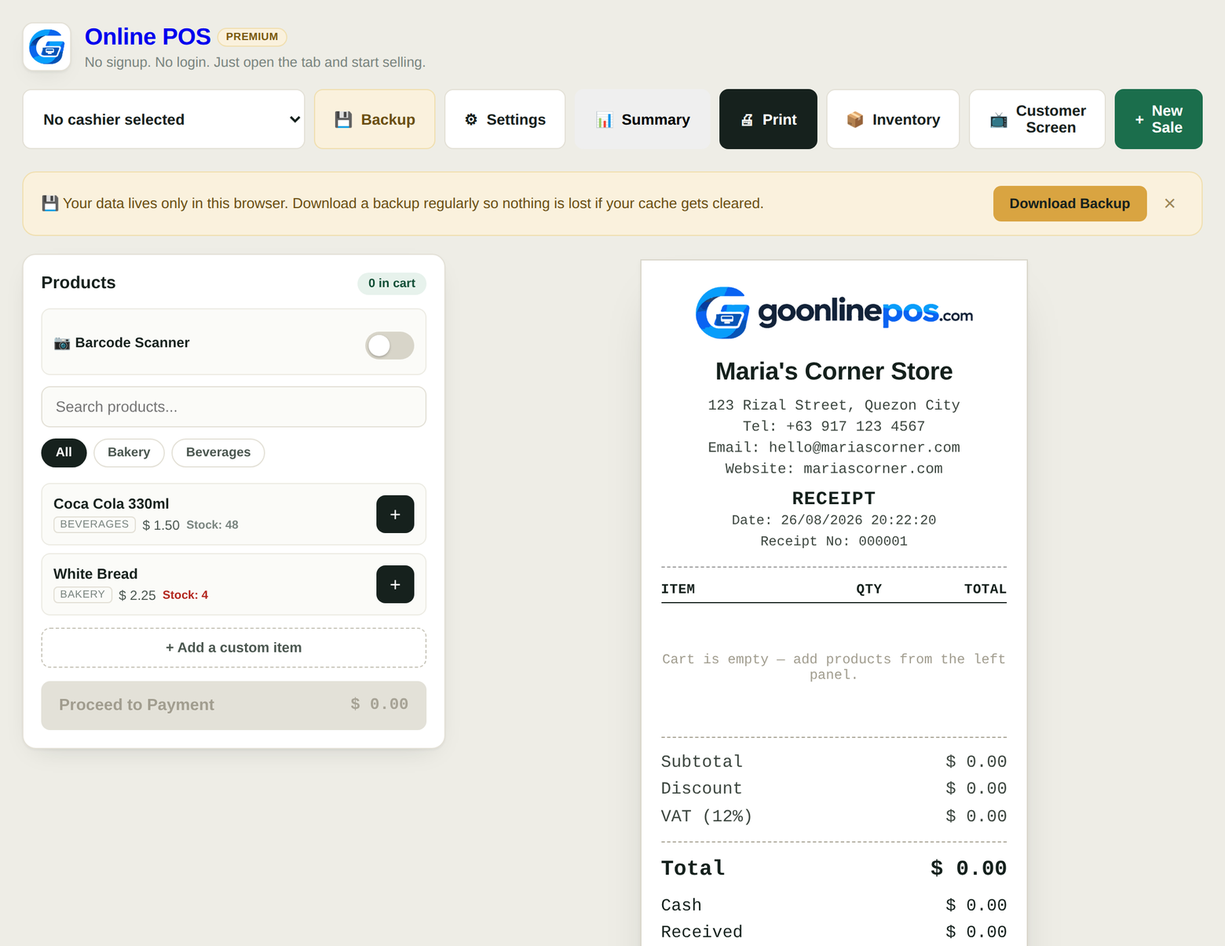
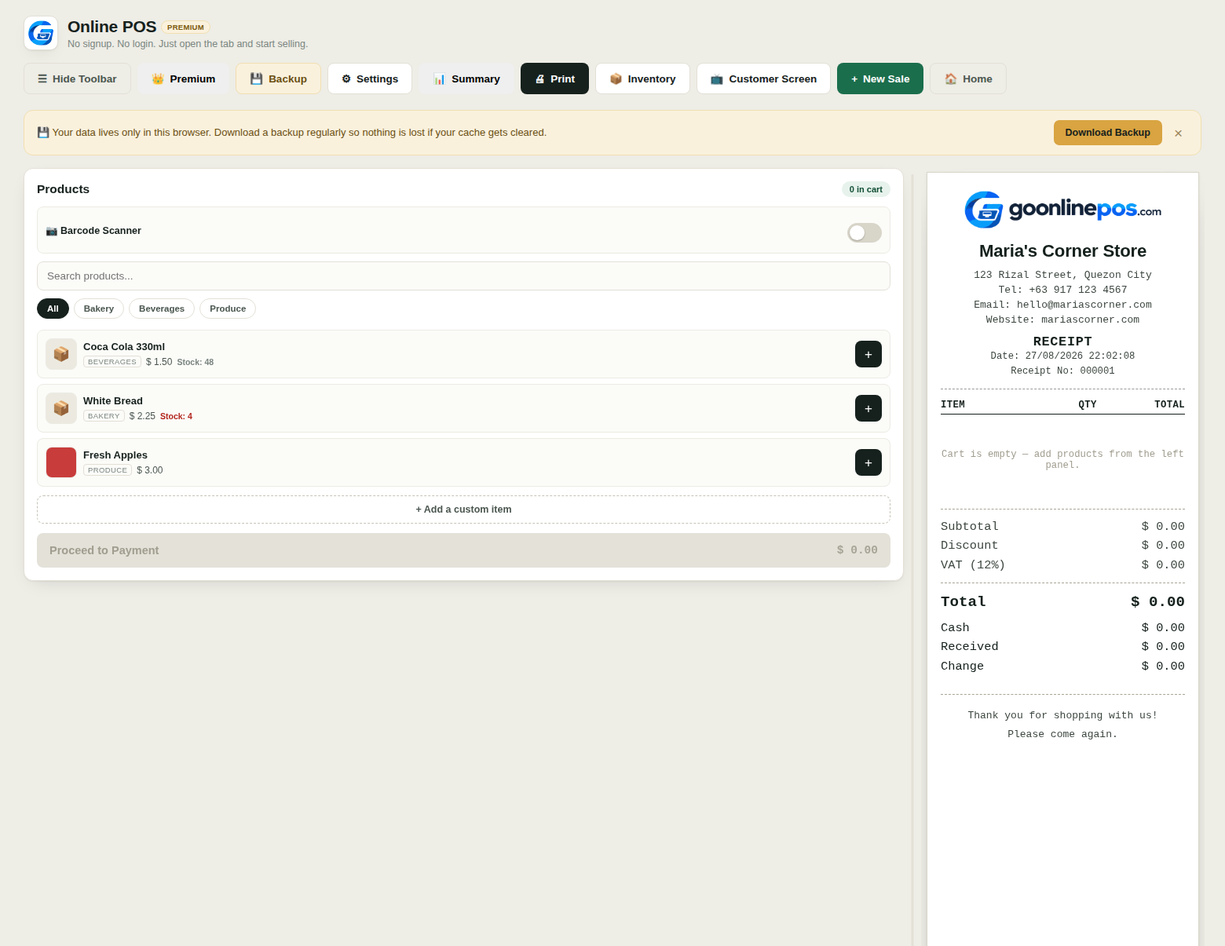
Add Home button, custom date-range sales export, refresh homepage screenshot
Three changes:

1. Explicit Home button (#homeShortcutButton, header toolbar) navigating
   to index.html via goHome(), which confirms first if the cart is
   non-empty (cart is in-memory only, never persisted -- navigating
   away would silently lose an in-progress sale otherwise). The header
   logo/title (.brand) is no longer itself a link -- it was an
   unguarded shortcut to the same destination that bypassed this safety
   check entirely and was easy to trigger by accident; now the explicit
   Home button is the only way back to the homepage from the app.

2. Sales History (Settings -> Sales History) gets optional From/To date
   pickers, both blank by default (= export everything, unchanged
   behavior). filterSalesHistoryByDateRange() filters salesHistory by
   saleDateKey() before building the export, so both the .xlsx path and
   its CSV fallback respect the same range; the downloaded filename
   reflects the chosen range instead of just today's date when one is
   set. A range matching zero sales shows an alert instead of
   downloading an empty file.

3. Regenerated the homepage's main-screen screenshot (guide-catalog.png)
   from the current live app -- the old one predated this session's
   toolbar, resizable layout, and Premium/Home buttons, so its
   description text was stale too. Updated that paragraph to mention
   the new header buttons, the resizable split, and product photos.

Re-verified: Home button navigates with/without the cart-guard as
[…]

diff --git a/app.html b/app.html
@@ -460,7 +460,7 @@ input:focus, textarea:focus, select:focus { outline: none; border-color: var(--a
 <body>
 
 <header class="app-header">
-<a class="brand" href="index.html">
+<div class="brand">
 <div class="brand-mark" aria-hidden="true">
 <img src="favicon.png" alt="">
 </div>
@@ -468,7 +468,7 @@ input:focus, textarea:focus, select:focus { outline: none; border-color: var(--a
 <h1><span id="appTitle">Online POS</span> <span class="premium-badge" id="premiumBadgeAppTitle">Premium</span> <span class="special-access-badge hidden" id="specialAccessBadge"></span></h1>
 <div class="subtitle" id="appSubtitle">No signup. No login. Just open the tab and start selling.</div>
 </div>
-</a>
+</div>
 <div class="header-actions">
 <button type="button" id="toolbarToggleBtn" class="toolbar-toggle-btn" onclick="toggleToolbar()">☰ <span id="toolbarToggleLabel">Hide Toolbar</span></button>
 <div class="header-actions-group" id="headerActionsGroup">
@@ -481,6 +481,7 @@ input:focus, textarea:focus, select:focus { outline: none; border-color: var(--a
 <button id="inventoryShortcutButton" onclick="openInventoryPanel()" title="View and edit stock">📦 <span id="inventoryShortcutLabel">Inventory</span></button>
 <button id="customerScreenButton" onclick="openCustomerScreenPanel()">📺 <span id="customerScreenButtonLabel">Customer Screen</span></button>
 <button id="newSaleButton" onclick="newSale()">+ <span id="newSaleButtonLabel">New Sale</span></button>
+<button id="homeShortcutButton" onclick="goHome()" style="background:transparent; border:1px solid var(--line); color:var(--ink-soft);" title="Go to homepage">🏠 <span id="homeShortcutLabel">Home</span></button>
 </div>
 </div>
 </header>
@@ -939,6 +940,16 @@ Website: goonlinepos.com</textarea>
         <h3 id="salesHistoryTitle">Sales History</h3>
         <div class="info" id="salesHistorySummary" style="display:block;">0 sales recorded.</div>
         <div id="salesHistoryTable" class="sales-history-list"></div>
+        <div class="two-columns" style="margin-top:10px;">
+          <div>
+            <label id="salesExportFromLabel">From (optional)</label>
+            <input id="salesExportFrom" type="date">
+          </div>
+          <div>
+            <label id="salesExportToLabel">To (optional)</label>
+            <input id="salesExportTo" type="date">
+          </div>
+        </div>
         <div class="csv-actions">
           <button style="background:var(--accent);" onclick="exportSalesToExcel()" id="downloadSalesButton">⬇ Download Sales Report</button>
           <button style="background:var(--danger);" onclick="clearSalesHistory()" id="clearSalesButton">Clear History</button>
@@ -1157,6 +1168,7 @@ en: {
   customerNameLabel: "Customer Name", customerNamePlaceholder: "Optional", customerLabelText: "Customer:",
   summaryButtonLabel: "Summary", salesSummaryTitle: "Sales Summary", summaryTotalLabel: "Overall Total",
   backupShortcutLabel: "Backup", premiumShortcutLabel: "Premium", toolbarHideLabel: "Hide Toolbar", toolbarShowLabel: "Show Toolbar",
+  homeShortcutLabel: "Home", goHomeConfirm: "Leave this page? Your current cart will be cleared.",
   summaryEmptyState: "No sales recorded for this date.", summaryNoMethodLabel: "Unspecified",
   logoUploadError: "Couldn't load that image. Try a PNG or JPG file.", logoRemoveConfirm: "Remove the company logo?", removeLogoConfirmButton: "Click again to remove",
   documentTitle: "Document", documentTypeLabel: "Document Type",
@@ -1171,6 +1183,7 @@ en: {
   inventoryLockMsgText: "Editing stock and downloading reports is a Premium feature. Activate a Premium code in Settings → Premium to unlock it. You can still browse your inventory below.",
   customerScreenLockMsgText: "This is a Premium feature. Activate a Premium code in Settings → Premium to unlock the Customer Screen.",
   inventoryUncategorized: "Uncategorized", inventoryExportEmptyAlert: "No products yet — add some first.", inventoryExportButtonLabel: "Download Inventory Report", inventoryValueLabel: "Value:",
+  salesExportFromLabel: "From (optional)", salesExportToLabel: "To (optional)", salesExportRangeEmptyAlert: "No sales found in that date range.",
   inventoryShortcutLabel: "Inventory", customerScreenButtonLabel: "Customer Screen", addProductStockLabel: "Stock Level (optional)", newProductStockPlaceholder: "Leave blank to not track stock",
   inventoryTitle: "Inventory", inventoryInfo: "Stock goes down automatically every time an item is sold. Edit any number below to correct it or restock — leave a field blank if you don't want to track stock for that product.",
   inventoryEmpty: "No products yet. Add some from Settings → Products.", inventoryStockLabel: "Stock:", stockLabel: "Stock:", premiumBadgeLabel: "Premium", basicBadgeLabel: "Basic", specialAccessBadge: "Special Access",
@@ -1250,6 +1263,7 @@ ar: {
   customerNameLabel: "اسم العميل", customerNamePlaceholder: "اختياري", customerLabelText: "العميل:",
   summaryButtonLabel: "الملخص", salesSummaryTitle: "ملخص المبيعات", summaryTotalLabel: "الإجمالي الكلي",
   backupShortcutLabel: "نسخة احتياطية", premiumShortcutLabel: "بريميوم", toolbarHideLabel: "إخفاء شريط الأدوات", toolbarShowLabel: "إظهار شريط الأدوات",
+  homeShortcutLabel: "الرئيسية", goHomeConfirm: "مغادرة هذه الصفحة؟ سيتم مسح سلة التسوق الحالية.",
   summaryEmptyState: "لا توجد مبيعات مسجلة لهذا التاريخ.", summaryNoMethodLabel: "غير محدد",
   logoUploadError: "تعذّر تحميل هذه الصورة. جرّب ملف PNG أو JPG.", logoRemoveConfirm: "هل تريد إزالة شعار الشركة؟", removeLogoConfirmButton: "اضغط مرة أخرى للإزالة",
   documentTitle: "المستند", documentTypeLabel: "نوع المستند",
@@ -1264,6 +1278,7 @@ ar: {
   inventoryLockMsgText: "تعديل المخزون وتنزيل التقارير ميزة بريميوم. فعّل رمز بريميوم من الإعدادات ← بريميوم لفتحها. لا يزال بإمكانك تصفح مخزونك أدناه.",
   customerScreenLockMsgText: "هذه ميزة بريميوم. فعّل رمز بريميوم من الإعدادات ← بريميوم لفتح شاشة العميل.",
   inventoryUncategorized: "غير مصنّف", inventoryExportEmptyAlert: "لا توجد منتجات بعد — أضف بعضها أولاً.", inventoryExportButtonLabel: "تنزيل تقرير المخزون", inventoryValueLabel: "القيمة:",
+  salesExportFromLabel: "من (اختياري)", salesExportToLabel: "إلى (اختياري)", salesExportRangeEmptyAlert: "لا توجد مبيعات في هذا النطاق الزمني.",
   inventoryShortcutLabel: "المخزون", customerScreenButtonLabel: "شاشة العميل", addProductStockLabel: "مستوى المخزون (اختياري)", newProductStockPlaceholder: "اتركه فارغاً لعدم تتبع المخزون",
   inventoryTitle: "المخزون", inventoryInfo: "ينخفض المخزون تلقائياً مع كل عملية بيع. عدّل أي رقم أدناه لتصحيحه أو لإعادة التخزين — اترك الحقل فارغاً إذا كنت لا تريد تتبع مخزون هذا المنتج.",
   inventoryEmpty: "لا توجد منتجات بعد. أضفها من الإعدادات ← المنتجات.", inventoryStockLabel: "المخزون:", stockLabel: "المخزون:", premiumBadgeLabel: "بريميوم", basicBadgeLabel: "أساسي", specialAccessBadge: "وصول خاص",
@@ -1335,6 +1350,7 @@ fil: {
   customerNameLabel: "Pangalan ng Customer", customerNamePlaceholder: "Opsyonal", customerLabelText: "Customer:",
   summaryButtonLabel: "Buod", salesSummaryTitle: "Buod ng Benta", summaryTotalLabel: "Kabuuang Total",
   backupShortcutLabel: "Backup", premiumShortcutLabel: "Premium", toolbarHideLabel: "Itago ang Toolbar", toolbarShowLabel: "Ipakita ang Toolbar",
+  homeShortcutLabel: "Home", goHomeConfirm: "Umalis sa page na ito? Mabubura ang kasalukuyang cart.",
   summaryEmptyState: "Walang benta na naitala para sa petsang ito.", summaryNoMethodLabel: "Hindi tinukoy",
   logoUploadError: "Hindi na-load ang larawan. Subukan ang PNG o JPG file.", logoRemoveConfirm: "Alisin ang logo ng kumpanya?", removeLogoConfirmButton: "I-click ulit para alisin",
   documentTitle: "Dokumento", documentTypeLabel: "Uri ng Dokumento",
@@ -1349,6 +1365,7 @@ fil: {
   inventoryLockMsgText: "Premium feature ang pag-edit ng stock at pag-download ng report. I-activate ang Premium code sa Settings → Premium para ito ma-unlock. Puwede mo pa ring tingnan ang imbentaryo sa ibaba.",
   customerScreenLockMsgText: "Premium feature ito. I-activate ang Premium code sa Settings → Premium para i-unlock ang Customer Screen.",
   inventoryUncategorized: "Walang Kategorya", inventoryExportEmptyAlert: "Wala pang produkto — magdagdag muna.", inventoryExportButtonLabel: "I-download ang Inventory Report", inventoryValueLabel: "Halaga:",
+  salesExportFromLabel: "Mula (opsyonal)", salesExportToLabel: "Hanggang (opsyonal)", salesExportRangeEmptyAlert: "Walang benta na natagpuan sa hanay ng petsang iyon.",
   inventoryShortcutLabel: "Imbentaryo", customerScreenButtonLabel: "Customer Screen", addProductStockLabel: "Stock Level (opsyonal)", newProductStockPlaceholder: "Iwanang blangko para hindi i-track ang stock",
   inventoryTitle: "Imbentaryo", inventoryInfo: "Awtomatikong bumababa ang stock tuwing may nabentang item. I-edit ang numero sa ibaba para ayusin o mag-restock — iwanang blangko kung ayaw mong i-track ang stock ng produktong iyon.",
   inventoryEmpty: "Wala pang produkto. Magdagdag mula sa Settings → Products.", inventoryStockLabel: "Stock:", stockLabel: "Stock:", premiumBadgeLabel: "Premium", basicBadgeLabel: "Basic", specialAccessBadge: "Special Access",
@@ -1420,6 +1437,7 @@ hi: {
   customerNameLabel: "ग्राहक का नाम", customerNamePlaceholder: "वैकल्पिक", customerLabelText: "ग्राहक:",
   summaryButtonLabel: "सारांश", salesSummaryTitle: "बिक्री सारांश", summaryTotalLabel: "कुल योग",
   backupShortcutLabel: "बैकअप", premiumShortcutLabel: "प्रीमियम", toolbarHideLabel: "टूलबार छुपाएं", toolbarShowLabel: "टूलबार दिखाएं",
+  homeShortcutLabel: "होम", goHomeConfirm: "इस पेज को छोड़ें? आपकी मौजूदा कार्ट खाली हो जाएगी।",
   summaryEmptyState: "इस तारीख के लिए कोई बिक्री दर्ज नहीं है।", summaryNoMethodLabel: "अनिर्दिष्ट",
   logoUploadError: "यह छवि लोड नहीं हो सकी। PNG या JPG फ़ाइल आज़माएं।", logoRemoveConfirm: "क्या कंपनी का लोगो हटाना है?", removeLogoConfirmButton: "हटाने के लिए फिर से क्लिक करें",
   documentTitle: "दस्तावेज़", documentTypeLabel: "दस्तावेज़ प्रकार",
@@ -1434,6 +1452,7 @@ hi: {
   inventoryLockMsgText: "स्टॉक संपादित करना और रिपोर्ट डाउनलोड करना एक प्रीमियम सुविधा है। इसे अनलॉक करने के लिए सेटिंग्स ← प्रीमियम में प्रीमियम कोड सक्रिय करें। आप अभी भी नीचे अपनी इन्वेंटरी देख सकते हैं।",
   customerScreenLockMsgText: "यह एक प्रीमियम सुविधा है। कस्टमर स्क्रीन अनलॉक करने के लिए सेटिंग्स ← प्रीमियम में प्रीमियम कोड सक्रिय करें।",
   inventoryUncategorized: "बिना श्रेणी", inventoryExportEmptyAlert: "अभी कोई उत्पाद नहीं है — पहले कुछ जोड़ें।", inventoryExportButtonLabel: "इन्वेंटरी रिपोर्ट डाउनलोड करें", inventoryValueLabel: "मूल्य:",
+  salesExportFromLabel: "से (वैकल्पिक)", salesExportToLabel: "तक (वैकल्पिक)", salesExportRangeEmptyAlert: "उस दिनांक सीमा में कोई बिक्री नहीं मिली।",
   inventoryShortcutLabel: "इन्वेंटरी", customerScreenButtonLabel: "कस्टमर स्क्रीन", addProductStockLabel: "स्टॉक स्तर (वैकल्पिक)", newProductStockPlaceholder: "स्टॉक ट्रैक न करने के लिए खाली छोड़ें",
   inventoryTitle: "इन्वेंटरी", inventoryInfo: "हर बिक्री के साथ स्टॉक अपने आप कम हो जाता है। सुधारने या फिर से स्टॉक करने के लिए नीचे कोई भी संख्या संपादित करें — यदि आप उस उत्पाद का स्टॉक ट्रैक नहीं करना चाहते तो फ़ील्ड खाली छोड़ दें।",
   inventoryEmpty: "अभी कोई उत्पाद नहीं है। सेटिंग्स ← उत्पाद से जोड़ें।", inventoryStockLabel: "स्टॉक:", stockLabel: "स्टॉक:", premiumBadgeLabel: "प्रीमियम", basicBadgeLabel: "बेसिक", specialAccessBadge: "विशेष पहुँच",
@@ -1505,6 +1524,7 @@ es: {
   customerNameLabel: "Nombre del Cliente", customerNamePlaceholder: "Opcional", customerLabelText: "Cliente:",
   summaryButtonLabel: "Resumen", salesSummaryTitle: "Resumen de Ventas", summaryTotalLabel: "Total General",
   backupShortcutLabel: "Respaldo", premiumShortcutLabel: "Premium", toolbarHideLabel: "Ocultar Barra", toolbarShowLabel: "Mostrar Barra",
+  homeShortcutLabel: "Inicio", goHomeConfirm: "¿Salir de esta página? Se vaciará el carrito actual.",
   summaryEmptyState: "No hay ventas registradas para esta fecha.", summaryNoMethodLabel: "Sin especificar",
   logoUploadError: "No se pudo cargar esa imagen. Prueba con un archivo PNG o JPG.", logoRemoveConfirm: "¿Quitar el logo de la empresa?", removeLogoConfirmButton: "Haz clic de nuevo para quitarlo",
   documentTitle: "Documento", documentTypeLabel: "Tipo de Documento",
@@ -1519,6 +1539,7 @@ es: {
   inventoryLockMsgText: "Editar el stock y descargar reportes es una función Premium. Activa un código Premium en Configuración → Premium para desbloquearla. Aún puedes explorar tu inventario abajo.",
   customerScreenLockMsgText: "Esta es una función Premium. Activa un código Premium en Configuración → Premium para desbloquear la Pantalla del Cliente.",
   inventoryUncategorized: "Sin Categoría", inventoryExportEmptyAlert: "Aún no hay productos — agrega algunos primero.", inventoryExportButtonLabel: "Descargar Reporte de Inventario", inventoryValueLabel: "Valor:",
+  salesExportFromLabel: "Desde (opcional)", salesExportToLabel: "Hasta (opcional)", salesExportRangeEmptyAlert: "No se encontraron ventas en ese rango de fechas.",
   inventoryShortcutLabel: "Inventario", customerScreenButtonLabel: "Pantalla del Cliente", addProductStockLabel: "Nivel de Stock (opcional)", newProductStockPlaceholder: "Déjalo en blanco para no rastrear el stock",
   inventoryTitle: "Inventario", inventoryInfo: "El stock baja automáticamente cada vez que se vende un artículo. Edita cualquier número abajo para corregirlo o reabastecer — deja un campo en blanco si no quieres rastrear el stock de ese producto.",
   inventoryEmpty: "Aún no hay productos. Agrega algunos desde Configuración → Productos.", inventoryStockLabel: "Stock:", stockLabel: "Stock:", premiumBadgeLabel: "Premium", basicBadgeLabel: "Básico", specialAccessBadge: "Acceso Especial",
@@ -1590,6 +1611,7 @@ th: {
   customerNameLabel: "ชื่อลูกค้า", customerNamePlaceholder: "ไม่บังคับ", customerLabelText: "ลูกค้า:",
   summaryButtonLabel: "สรุปยอด", salesSummaryTitle: "สรุปยอดขาย", summaryTotalLabel: "ยอดรวมทั้งหมด",
   backupShortcutLabel: "สำรองข้อมูล", premiumShortcutLabel: "พรีเมียม", toolbarHideLabel: "ซ่อนแถบเครื่องมือ", toolbarShowLabel: "แสดงแถบเครื่องมือ",
+  homeShortcutLabel: "หน้าแรก", goHomeConfirm: "ออกจากหน้านี้หรือไม่? ตะกร้าปัจจุบันจะถูกล้าง",
   summaryEmptyState: "ไม่มีรายการขายในวันที่นี้", summaryNoMethodLabel: "ไม่ระบุ",
   logoUploadError: "โหลดรูปภาพนี้ไม่ได้ ลองใช้ไฟล์ PNG หรือ JPG", logoRemoveConfirm: "ต้องการลบโลโก้บริษัทหรือไม่?", removeLogoConfirmButton: "แตะอีกครั้งเพื่อลบ",
   documentTitle: "เอกสาร", documentTypeLabel: "ประเภทเอกสาร",
@@ -1604,6 +1626,7 @@ th: {
   inventoryLockMsgText: "การแก้ไขสต็อกและการดาวน์โหลดรายงานเป็นฟีเจอร์พรีเมียม เปิดใช้งานรหัสพรีเมียมที่การตั้งค่า ← พรีเมียม เพื่อปลดล็อก คุณยังสามารถเรียกดูคลังสินค้าของคุณด้านล่างได้",
   customerScreenLockMsgText: "นี่คือฟีเจอร์พรีเมียม เปิดใช้งานรหัสพรีเมียมที่การตั้งค่า ← พรีเมียม เพื่อปลดล็อกหน้าจอลูกค้า",
   inventoryUncategorized: "ไม่มีหมวดหมู่", inventoryExportEmptyAlert: "ยังไม่มีสินค้า — เพิ่มสินค้าก่อน", inventoryExportButtonLabel: "ดาวน์โหลดรายงานคลังสินค้า", inventoryValueLabel: "มูลค่า:",
+  salesExportFromLabel: "จาก (ไม่บังคับ)", salesExportToLabel: "ถึง (ไม่บังคับ)", salesExportRangeEmptyAlert: "ไม่พบยอดขายในช่วงวันที่นั้น",
   inventoryShortcutLabel: "คลังสินค้า", customerScreenButtonLabel: "หน้าจอลูกค้า", addProductStockLabel: "ระดับสต็อก (ไม่บังคับ)", newProductStockPlaceholder: "เว้นว่างไว้หากไม่ต้องการติดตามสต็อก",
   inventoryTitle: "คลังสินค้า", inventoryInfo: "สต็อกจะลดลงอัตโนมัติทุกครั้งที่มีการขายสินค้า แก้ไขตัวเลขด้านล่างเพื่อแก้ไขหรือเติมสต็อก — เว้นช่องว่างไว้หากไม่ต้องการติดตามสต็อกของสินค้านั้น",
   inventoryEmpty: "ยังไม่มีสินค้า เพิ่มได้จากการตั้งค่า ← สินค้า", inventoryStockLabel: "สต็อก:", stockLabel: "สต็อก:", premiumBadgeLabel: "พรีเมียม", basicBadgeLabel: "พื้นฐาน", specialAccessBadge: "สิทธิ์พิเศษ",
@@ -2416,6 +2439,11 @@ async function newSale() {
   await startNewSale();
 }
 
+function goHome() {
+  if (cart.length && !confirm(tr("goHomeConfirm"))) return;
+  location.href = "index.html";
+}
+
 function goToCheckout() {
   if (cart.length === 0) { alert(tr("cartEmptyAlert")); return; }
   document.getElementById("catalogView").classList.add("hidden");
@@ -3073,8 +3101,9 @@ async function activateFreePremiumFromNotice() {
   await activatePremiumCode();
 }
 
-function buildSalesExportRows() {
-  const parentRows = salesHistory.map(function(s) {
+function buildSalesExportRows(list) {
+  const source = list || salesHistory;
+  const parentRows = source.map(function(s) {
     return {
       "Receipt No": s.receiptNumber,
       "Date/Time": s.dateTime,
@@ -3096,7 +3125,7 @@ function buildSalesExportRows() {
     };
   });
   const childRows = [];
-  salesHistory.forEach(function(s) {
+  source.forEach(function(s) {
     s.items.forEach(function(it) {
       childRows.push({
         "Receipt No": s.receiptNumber,
@@ -3108,6 +3137,28 @@ function buildSalesExportRows() {
     });
   });
   return { parentRows: parentRows, childRows: childRows };
+}
+
+function filterSalesHistoryByDateRange(list) {
+  const fromEl = document.getElementById("salesExportFrom");
+  const toEl = document.getElementById("salesExportTo");
+  const from = fromEl && fromEl.value ? fromEl.value : null;
+  const to = toEl && toEl.value ? toEl.value : null;
+  if (!from && !to) return list;
+  return list.filter(function(s) {
+    const key = saleDateKey(s.dateTime);
+    if (from && key < from) return false;
+    if (to && key > to) return false;
+    return true;
+  });
+}
+function salesExportFileSuffix() {
+  const fromEl = document.getElementById("salesExportFrom");
+  const toEl = document.getElementById("salesExportTo");
+  const from = fromEl && fromEl.value;
+  const to = toEl && toEl.value;
+  if (!from && !to) return todayStamp();
+  return (from || "start") + "_to_" + (to || "now");
 }
 
 function exportInventoryToExcel() {
@@ -3144,18 +3195,21 @@ function exportInventoryToExcel() {
 
 function exportSalesToExcel() {
   if (!salesHistory.length) { alert("No completed sales yet — finish a sale first."); return; }
-  const { parentRows, childRows } = buildSalesExportRows();
+  const filtered = filterSalesHistoryByDateRange(salesHistory);
+  if (!filtered.length) { alert(tr("salesExportRangeEmptyAlert")); return; }
+  const { parentRows, childRows } = buildSalesExportRows(filtered);
+  const suffix = salesExportFileSuffix();
 
   if (typeof XLSX !== "undefined") {
     const wb = XLSX.utils.book_new();
     XLSX.utils.book_append_sheet(wb, XLSX.utils.json_to_sheet(parentRows), "Sales");
     XLSX.utils.book_append_sheet(wb, XLSX.utils.json_to_sheet(childRows), "Sale Items");
-    XLSX.writeFile(wb, "sales-report-" + todayStamp() + ".xlsx");
+    XLSX.writeFile(wb, "sales-report-" + suffix + ".xlsx");
     return;
   }
 
-  downloadTextFile("sales-report-parent-" + todayStamp() + ".csv", rowsToCsv(parentRows));
-  downloadTextFile("sales-report-items-" + todayStamp() + ".csv", rowsToCsv(childRows));
+  downloadTextFile("sales-report-parent-" + suffix + ".csv", rowsToCsv(parentRows));
+  downloadTextFile("sales-report-items-" + suffix + ".csv", rowsToCsv(childRows));
 }
 
 /* OFFLINE-STRIP:DOWNLOAD-JS:START */
@@ -4206,7 +4260,7 @@ function changeLanguage() {
     cashiersTitle: "cashiersTitle", cashiersInfo: "cashiersInfo", cashierLabelText: "cashierLabelText",
     customerNameLabel: "customerNameLabel", customerLabelText: "customerLabelText",
     summaryButtonLabel: "summaryButtonLabel", salesSummaryTitle: "salesSummaryTitle", summaryTotalLabel: "summaryTotalLabel",
-    backupShortcutLabel: "backupShortcutLabel", premiumShortcutLabel: "premiumShortcutLabel",
+    backupShortcutLabel: "backupShortcutLabel", premiumShortcutLabel: "premiumShortcutLabel", homeShortcutLabel: "homeShortcutLabel",
     documentTitle: "documentTitle", documentTypeLabel: "documentTypeLabel",
     receiptNumberLabel: "receiptNumberLabel", receiptNumberInfo: "receiptNumberInfo", receiptPrefixLabel: "receiptPrefixLabel", receiptPrefixInfo: "receiptPrefixInfo",
     taxTitle: "taxTitle", taxNameLabel: "taxNameLabel", taxRateLabel: "taxRateLabel", discountLabel: "discountLabel",
@@ -4240,6 +4294,7 @@ function changeLanguage() {
     saleDetailSubtotalLabel: "saleDetailSubtotalLabel", saleDetailDiscountAmtLabel: "saleDetailDiscountAmtLabel", saleDetailTaxAmtLabel: "saleDetailTaxAmtLabel",
     saleDetailGrandLabel: "saleDetailGrandLabel", saleDetailReceivedLabel: "saleDetailReceivedLabel", saleDetailChangeLabel: "saleDetailChangeLabel",
     saleDetailReprintLabel: "saleDetailReprintLabel", saleDetailSaveLabel: "saleDetailSaveLabel", inventoryExportButtonLabel: "inventoryExportButtonLabel",
+    salesExportFromLabel: "salesExportFromLabel", salesExportToLabel: "salesExportToLabel",
     premiumTabLabel: "premiumTabLabel", premiumPanelTitle: "premiumPanelTitle", premiumPanelInfo: "premiumPanelInfo", premiumActiveLabel: "premiumActiveLabel",
     premiumCodeLabel: "premiumCodeLabel", premiumActivateBtn: "premiumActivateBtn",
     premiumChangeCodeLabel: "premiumChangeCodeLabel", premiumCancelEditLabel: "offlineCancelBtnLabel",

diff --git a/index.html b/index.html
@@ -484,7 +484,7 @@ img { max-width: 100%; display: block; }
 <span class="guide-num">MAIN SCREEN</span>
 <img src="guide-catalog.png" alt="Go Online POS main product catalog screen" loading="lazy">
 <h3>Your everyday screen</h3>
-<p>This is what you'll spend most of your time on — your product catalog on the left, live receipt preview on the right. Tap a product to add it to the cart, search or filter by category, and use the header buttons to reach Backup, Settings, Summary, Print, Inventory, Customer Screen, and New Sale.</p>
+<p>This is what you'll spend most of your time on — your product catalog on the left, live receipt preview on the right (drag the divider between them to resize, or collapse the toolbar for more room). Tap a product to add it to the cart, search or filter by category, and use the header buttons to reach Premium, Backup, Settings, Summary, Print, Inventory, Customer Screen, New Sale, and Home. Products can carry a photo, too — no photo yet just shows a placeholder icon.</p>
 </div>
 
 <div class="guide-item" id="guide-customerscreen">

diff --git a/CLAUDE.md b/CLAUDE.md
@@ -90,6 +90,15 @@ zero network calls.
   `.app` already switches to a vertical flex stack, so
   `.panel-resize-handle` is simply hidden there — dragging left/right
   makes no sense once the panels aren't side-by-side.
+- **Header brand mark is not a link.** `.brand` (logo + title + Premium
+  badge) is a plain `<div>`, not an `<a href="index.html">` — it used to
+  double as an unguarded way back to the homepage, but that bypassed
+  the in-progress-cart safety check entirely (`cart` is in-memory only,
+  never persisted — navigating away loses it) and was easy to trigger
+  by accident. The only way back to the homepage now is the explicit
+  **`#homeShortcutButton`** ("🏠 Home", last item in the header
+  toolbar) → `goHome()`, which confirms first via `goHomeConfirm` if
+  `cart.length` is non-zero, then navigates.
 - **Product photos:** each `products[]` entry has an optional `photo`
   field (a compressed JPEG data URL) alongside `name`/`price`/
   `category`/`sku`/`stock`. `compressProductPhoto(file)` downsizes any
@@ -129,7 +138,17 @@ zero network calls.
   Sample CSV" and "Clear Products" actions exist.
 - **Exports:** uses `xlsx.full.min.js` for `.xlsx` inventory/sales reports
   (`exportInventoryToExcel`, `exportSalesToExcel`) and a hand-rolled
-  CSV/text export path (`rowsToCsv`, `downloadTextFile`).
+  CSV/text export path (`rowsToCsv`, `downloadTextFile`). Sales History
+  (Settings → Sales History) has optional `#salesExportFrom`/
+  `#salesExportTo` date pickers, both blank by default (= export
+  everything, the original behavior) — `filterSalesHistoryByDateRange()`
+  filters `salesHistory` by `saleDateKey()` before
+  `buildSalesExportRows()` builds the sheet, so both the `.xlsx` path
+  and its CSV fallback respect the same range; `salesExportFileSuffix()`
+  names the downloaded file after the chosen range (e.g.
+  `sales-report-2026-08-01_to_2026-08-31.xlsx`) instead of just today's
+  date when a range is set. A range matching zero sales shows
+  `salesExportRangeEmptyAlert` rather than downloading an empty file.
 - **Barcode scanning:** `@zxing/browser` drives a camera-based scanner
   (`barcodeReader`), toggleable in Settings; matches scanned code against
   product SKU.
